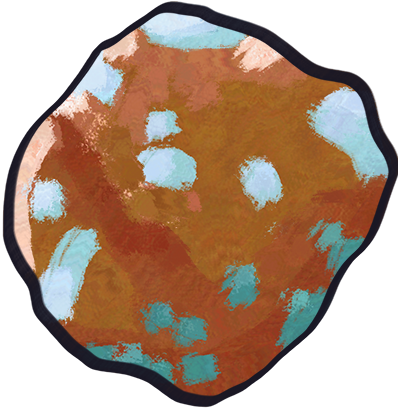
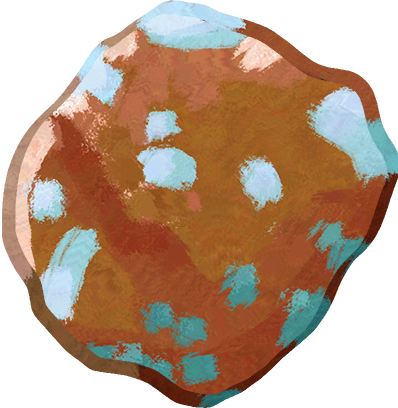
implement copper image and in ui

Changed region(s): [[0.0, 0.0, 1.0, 1.0]]

diff --git a/js/gameobjects/Pickup.js b/js/gameobjects/Pickup.js
@@ -11,7 +11,7 @@ export class Pickup extends GameObject {
     super("Pickup");
 
     this.transform.position = {x: posx, y: posy};
-    this.transform.scale = { x: 0.015, y: 0.015 };
+    this.transform.scale = { x: 0.04, y: 0.04 };
     this.isPickedUp = false;
     this.pickupAnimationDuration = 0.5;
     this.pickupAnimationElapsed = 0;
@@ -22,7 +22,7 @@ export class Pickup extends GameObject {
     this.targetPos = { x: 0, y: 0 };
 
     const img = new Image();
-    img.src = "/assets/images/rafli.png";
+    img.src = "/assets/images/copper.png";
     img.onload = () => {
       this.addComponent(new SpriteRenderer(img, { pivot: "center", zOrder: 2 }));
 
@@ -60,8 +60,8 @@ export class Pickup extends GameObject {
 
     const dropShadow = new DropShadow({
       offset: { x: 0, y: -18 },
-      width: 1500,
-      height: 600,
+      width: 500,
+      height: 200,
       color: "#00002288",
     });
     this.addComponent(dropShadow);

diff --git a/css/style.css b/css/style.css
@@ -268,9 +268,9 @@ canvas {
 #copper-image-container {
   height: 100%;
   width: 12.5%;
-  background-color: chocolate;
+  /* background-color: chocolate; */
   border-radius: 50%;
-  box-shadow: 0 0 0.5vw black;
+  box-shadow: 0 0 1vw black, 0 0 4vw black inset;
 }
 
 #copper-container p {
@@ -518,12 +518,29 @@ h2 {
   top: 5%;
   left: 5%;
   font-size: 4vw;
+  justify-content: center;
+  align-items: center;
+  gap: 1vw;
+}
+
+#copper-count-container img {
+  width: 40%;
+  height: 40%;
+  border-radius: 50%;
+  box-shadow: 0 0 1vw black, 0 0 4vw black inset;
 }
 
 .ship-line-container button {
   border: rgb(72, 81, 255) 1vw;
   padding: 1vw;
   border-radius: 0.5vw;
+}
+
+.ship-line-container img {
+  width: 2.5vw;
+  height: 2.5vw;
+  box-shadow: 0 0 1vw black, 0 0 2vw black inset;
+  border-radius: 50%;
 }
 
 .ship-upgrade-bars-container {

diff --git a/index.html b/index.html
@@ -28,7 +28,7 @@
           </div>
           <div id="copper-container">
             <div id="copper-image-container">
-              <img src="" alt="">
+              <img src="/assets/images/copper.png" alt="copper">
             </div>
             <p>0</p>
           </div>
@@ -43,7 +43,7 @@
     <div id="ship-menu-container" class="menu">
       <h2>Shipwreck</h2>
       <div id="copper-count-container">
-        <img src="" alt="">
+        <img src="/assets/images/copper.png" alt="copper">
         <p>0</p>
       </div>
       <div class="ship-line-container">

diff --git a/js/gameobjects/ShipMenuManager.js b/js/gameobjects/ShipMenuManager.js
@@ -142,6 +142,8 @@ export class ShipMenuManager extends GameObject {
       containerDiv.classList.add("ship-line-container");
 
       // Price <p>
+      const copperimg = containerDiv.appendChild(document.createElement("img"));
+      copperimg.src = "/assets/images/copper.png"
       const priceP = document.createElement("p");
       priceP.textContent = item.cost;
       containerDiv.appendChild(priceP);

diff --git a/js/gameobjects/Rock.js b/js/gameobjects/Rock.js
@@ -19,8 +19,8 @@ export class Rock extends GameObject {
     };
 
     const mainCollider = new BoxCollider({
-      width: 50,
-      height: 50,
+      width: 40,
+      height: 40,
       offset: { x: 0, y: 0 },
       isTrigger: false,
     });
